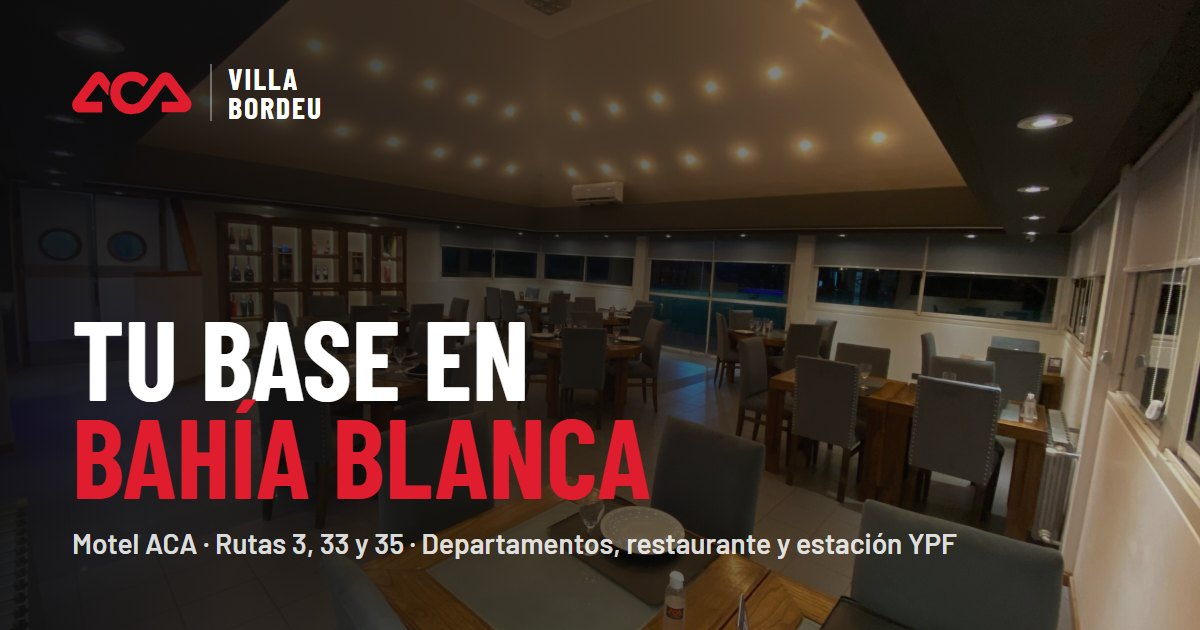
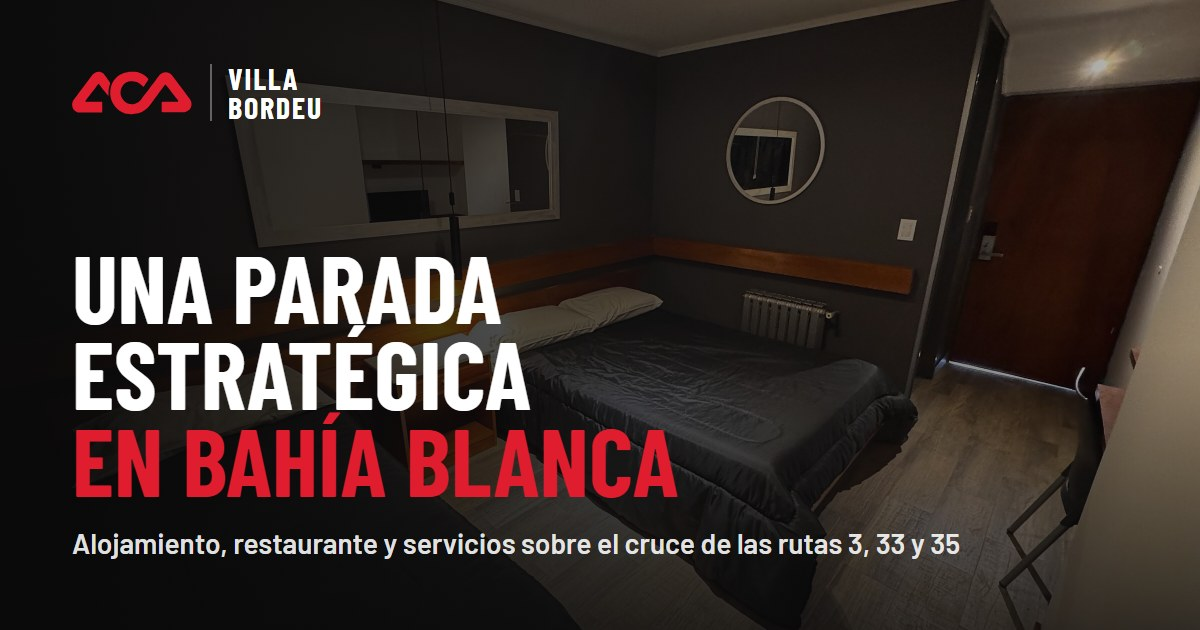
v2: predio como índice, cifra en número, velo en portadas internas, og:image propia

diff --git a/components/secciones/Predio.tsx b/components/secciones/Predio.tsx
@@ -1,116 +1,76 @@
-"use client";
-
-import { useState } from "react";
 import Image from "next/image";
 import Link from "next/link";
 import { PREDIO } from "@/lib/datos";
 import { foto } from "@/lib/fotos";
 import { Icono } from "@/components/marca/Icono";
 
-const AEREA = foto("predio", "aerea-dia.jpg", "Vista aérea del complejo ACA Villa Bordeu, con la torre, los techos rojos y el parque");
-
 /**
- * Plano del predio sobre la foto aérea. Los puntos se encienden uno por uno
- * (motor: data-pin-grupo); al tocar uno, la ficha cambia con su foto.
- * Sin JS: la foto con la lista debajo.
+ * Los lugares del complejo como un índice: número, nombre grande, una línea y
+ * la foto siempre a la vista. Nada que tocar para entenderlo.
  */
 export function Predio({ titulo = true }: { titulo?: boolean }) {
-  const [activo, setActivo] = useState(PREDIO[0].id);
-  const p = PREDIO.find((x) => x.id === activo) ?? PREDIO[0];
-  const fp = p.foto ? foto(p.foto[0], p.foto[1], p.titulo) : null;
-
   return (
     <div>
       {titulo && (
         <div className="mb-10 grid gap-6 md:mb-14 lg:grid-cols-[1fr_1fr] lg:items-end">
           <div>
             <p className="etiqueta" data-reveal>
-              El complejo
+              El predio
             </p>
             <h2 className="t-h2 mt-4" data-split>
-              Más que un lugar <span className="rojo-txt">para dormir</span>
+              Todo en un <span className="rojo-txt">mismo lugar</span>
             </h2>
           </div>
           <p className="lead text-asfalto lg:justify-self-end" data-reveal>
-            Tocá cada punto del plano.
+            Dormís, comés, entrenás, te reunís y cargás combustible sin salir del complejo.
           </p>
         </div>
       )}
 
-      <div className="grid gap-4 lg:grid-cols-[1.55fr_1fr]">
-        {/* Plano */}
-        <div className="tarjeta relative aspect-[9/5] bg-grafito md:aspect-[9/4.6]" data-pin-grupo>
-          <Image src={AEREA.src} alt={AEREA.alt} fill sizes="(min-width: 1024px) 60vw, 100vw" placeholder="blur" blurDataURL={AEREA.blurDataURL} className="object-cover" />
-          <div className="absolute inset-0 bg-gradient-to-t from-black/45 to-transparent" />
-          {PREDIO.map((pt, i) => (
-            <button
-              key={pt.id}
-              type="button"
-              data-pin-punto
-              aria-pressed={pt.id === activo}
-              aria-label={`${i + 1}. ${pt.titulo}`}
-              onClick={() => setActivo(pt.id)}
-              onMouseEnter={() => setActivo(pt.id)}
-              className="plano-punto group absolute -translate-x-1/2 -translate-y-1/2"
-              style={{ left: `${pt.x}%`, top: `${pt.y}%` }}
-            >
-              <span className="anillo absolute inset-0 rounded-full bg-rojo/60" aria-hidden="true" />
-              <span
-                className={[
-                  "relative grid size-8 place-items-center rounded-full font-display text-[15px] font-bold shadow-[0_6px_18px_-4px_rgb(0_0_0/0.6)] transition-all duration-300 md:size-10 md:text-[17px]",
-                  pt.id === activo ? "scale-110 bg-rojo text-white" : "bg-white text-tinta group-hover:bg-rojo group-hover:text-white",
-                ].join(" ")}
-              >
-                {i + 1}
+      <ol className="border-t border-[color:var(--linea)]">
+        {PREDIO.map((p, i) => {
+          const f = p.foto ? foto(p.foto[0], p.foto[1], p.titulo) : null;
+          const fila = (
+            <>
+              <span className="num font-display text-[15px] font-bold text-rojo md:text-[17px]">{String(i + 1).padStart(2, "0")}</span>
+              <span className="min-w-0">
+                <span className="block font-display text-[clamp(26px,3.2vw,52px)] leading-[0.95] font-bold uppercase transition-colors duration-500 group-hover:text-rojo">
+                  {p.titulo}
+                </span>
+                <span className="mt-2 block max-w-[46ch] text-[15px] text-asfalto md:text-base">{p.texto}</span>
               </span>
-            </button>
-          ))}
-          <p className="absolute bottom-3 left-4 text-[12px] font-semibold text-white/80 md:bottom-4 md:left-5">Vista aérea del complejo</p>
-        </div>
-
-        {/* Ficha del punto activo */}
-        <div className="tarjeta relative flex min-h-[300px] flex-col justify-end bg-grafito text-white">
-          {fp ? (
-            <Image key={fp.src} src={fp.src} alt={fp.alt} fill sizes="(min-width: 1024px) 38vw, 100vw" placeholder="blur" blurDataURL={fp.blurDataURL} className="visor-entra object-cover" />
-          ) : (
-            <div key={p.id} className="visor-entra grano absolute inset-0 grid place-items-center bg-[radial-gradient(circle_at_50%_35%,#3a1418,#141516_70%)]">
-              <Icono nombre={p.icono} className="size-28 text-white/15" grosor={0.8} />
-            </div>
-          )}
-          <div className="absolute inset-0 bg-gradient-to-t from-black/90 via-black/30 to-transparent" />
-          <div key={p.id} className="paso-entra relative p-5 md:p-7">
-            <span className="grid size-11 place-items-center rounded-full bg-rojo">
-              <Icono nombre={p.icono} className="size-5" grosor={1.8} />
-            </span>
-            <h3 className="mt-4 font-display text-[34px] leading-none font-bold uppercase">{p.titulo}</h3>
-            <p className="mt-2 max-w-[32ch] text-white/80">{p.texto}</p>
-            {p.href && (
-              <Link href={p.href} className="enlace mt-4 text-[15px]">
-                Ver más
-              </Link>
-            )}
-          </div>
-        </div>
-      </div>
-
-      {/* Lista: en celular es la forma principal de recorrer el plano */}
-      <ol className="sin-barra -mx-[var(--gutter)] mt-4 flex gap-2 overflow-x-auto px-[var(--gutter)] lg:mx-0 lg:grid lg:grid-cols-8 lg:px-0">
-        {PREDIO.map((pt, i) => (
-          <li key={pt.id} className="shrink-0">
-            <button
-              type="button"
-              onClick={() => setActivo(pt.id)}
-              aria-pressed={pt.id === activo}
-              className={[
-                "flex h-full w-full items-center gap-2 rounded-2xl px-3.5 py-3 text-left text-[14px] leading-tight font-semibold transition-colors",
-                pt.id === activo ? "bg-tinta text-white" : "bg-white shadow-[inset_0_0_0_1px_var(--linea)] hover:bg-hormigon",
-              ].join(" ")}
-            >
-              <span className={`num font-display text-[18px] ${pt.id === activo ? "text-rojo" : "text-asfalto"}`}>{i + 1}</span>
-              {pt.titulo}
-            </button>
-          </li>
-        ))}
+              <span className="relative aspect-[4/3] w-[96px] shrink-0 overflow-hidden rounded-2xl bg-grafito sm:w-[150px] lg:w-[220px]">
+                {f ? (
+                  <Image
+                    src={f.src}
+                    alt={f.alt}
+                    fill
+                    sizes="(min-width: 1024px) 220px, 150px"
+                    placeholder="blur"
+                    blurDataURL={f.blurDataURL}
+                    className="object-cover transition-transform duration-[1.2s] ease-[var(--ease-pt)] group-hover:scale-110"
+                  />
+                ) : (
+                  <span className="grid size-full place-items-center text-white/70">
+                    <Icono nombre={p.icono} className="size-9" grosor={1.3} />
+                  </span>
+                )}
+              </span>
+            </>
+          );
+          const clase = "group grid grid-cols-[auto_1fr_auto] items-center gap-4 border-b border-[color:var(--linea)] py-5 sm:gap-8 md:py-7";
+          return (
+            <li key={p.id} data-reveal data-delay={String(i * 0.05)}>
+              {p.href ? (
+                <Link href={p.href} className={clase}>
+                  {fila}
+                </Link>
+              ) : (
+                <div className={clase}>{fila}</div>
+              )}
+            </li>
+          );
+        })}
       </ol>
     </div>
   );

diff --git a/components/secciones/Comunes.tsx b/components/secciones/Comunes.tsx
@@ -39,7 +39,8 @@ export function PortadaPagina({
             <div className="absolute inset-x-0 -inset-y-[8%]" data-parallax="6">
               <Image src={f.src} alt={f.alt} fill priority sizes="100vw" quality={75} placeholder="blur" blurDataURL={f.blurDataURL} className="object-cover" />
             </div>
-            <div className="absolute inset-0 bg-[linear-gradient(180deg,rgb(10_10_11/0.6)_0%,rgb(10_10_11/0.2)_40%,rgb(10_10_11/0.88)_100%)]" />
+            <div className="absolute inset-0 bg-[linear-gradient(180deg,rgb(10_10_11/0.55)_0%,rgb(10_10_11/0.35)_40%,rgb(10_10_11/0.92)_100%)]" />
+            <div className="absolute inset-0 bg-[linear-gradient(90deg,rgb(10_10_11/0.7)_0%,rgb(10_10_11/0.35)_50%,transparent_85%)]" />
           </>
         ) : (
           <>
@@ -51,11 +52,11 @@ export function PortadaPagina({
       <div data-hero-contenido className="contenedor relative flex w-full flex-col justify-end pt-[calc(var(--header-h)+40px)] pb-10 md:pb-16">
         <Migas items={migas} />
         {/* `etiqueta` queda como dato (no se muestra): la portada va sin pre-título. */}
-        <h1 className="t-h1 hero-in mt-5 max-w-[18ch]" data-etiqueta={etiqueta} style={{ ["--i" as string]: 1 }}>
+        <h1 className="t-h1 hero-in mt-5 max-w-[18ch] [text-shadow:0_2px_24px_rgb(0_0_0/0.5)]" data-etiqueta={etiqueta} style={{ ["--i" as string]: 1 }}>
           {titulo}
         </h1>
         {bajada && (
-          <p className="lead hero-in mt-5 text-white/80" style={{ ["--i" as string]: 2 }}>
+          <p className="lead hero-in mt-5 text-white/90 [text-shadow:0_1px_14px_rgb(0_0_0/0.6)]" style={{ ["--i" as string]: 2 }}>
             {bajada}
           </p>
         )}

diff --git a/lib/datos.ts b/lib/datos.ts
@@ -73,6 +73,6 @@ export const PREDIO: PuntoPredio[] = [
   { id: "recepcion", titulo: "Recepción 24 h", texto: "Atención las 24 horas, para el que llega de noche por la ruta.", icono: "campana", x: 27, y: 40, foto: ["cafeteria", "01-recepcion-cafeteria.jpg"] },
   { id: "gym", titulo: "Gimnasio", texto: "Máquinas, bicis y pesas, con ventanales al parque.", icono: "pesa", x: 57, y: 56, foto: ["gimnasio", "01-gym-pared-verde.jpg"] },
   { id: "sala", titulo: "Sala de reuniones", texto: "Mesa para el equipo y pantalla para presentar.", icono: "reunion", x: 50, y: 46, foto: ["sala-reuniones", "01-mesa.jpg"], href: "/sala-de-reuniones" },
-  { id: "ypf", titulo: "Estación YPF", texto: "Combustible para seguir viaje o para la flota del equipo.", icono: "surtidor", x: 15, y: 41, foto: ["cafeteria", "02-cafeteria-mesas.jpg"], href: "/estacion-de-servicio" },
+  { id: "ypf", titulo: "Estación YPF", texto: "Combustible para seguir viaje o para la flota del equipo.", icono: "surtidor", x: 15, y: 41, foto: null, href: "/estacion-de-servicio" },
   { id: "lavanderia", titulo: "Lavandería", texto: "Para la ropa de todos los días y la de trabajo.", icono: "lavarropas", x: 68, y: 57, foto: null },
 ];

diff --git a/app/departamentos/page.tsx b/app/departamentos/page.tsx
@@ -25,7 +25,7 @@ export default function Departamentos() {
             Departamentos en Bahía Blanca, <span className="text-rojo">sobre la ruta</span>
           </>
         }
-        bajada="Veintiséis departamentos con baño privado y la cochera cubierta en la puerta. Para quedarse una noche o varias semanas."
+        bajada="26 departamentos con baño privado y la cochera cubierta en la puerta. Para quedarse una noche o varias semanas."
         migas={[{ nombre: "Departamentos", ruta: "/departamentos" }]}
       >
         <BotonConsultar modo="viaje" origen="deptos-portada">

diff --git a/app/historia/page.tsx b/app/historia/page.tsx
@@ -34,7 +34,7 @@ const HITOS = [
   {
     anio: "Hoy",
     titulo: "Todo en un mismo predio",
-    texto: "Veintiséis departamentos, gimnasio, sala de reuniones, tienda propia y la estación YPF. La base de los equipos que trabajan en la zona y de los viajeros que van al sur.",
+    texto: "26 departamentos, gimnasio, sala de reuniones, tienda propia y la estación YPF. La base de los equipos que trabajan en la zona y de los viajeros que van al sur.",
     foto: foto("habitaciones", "01-triple-dos-camas.jpg", "Departamento con paredes grafito y cabecera de madera"),
   },
 ];

diff --git a/components/secciones/ParaEmpresas.tsx b/components/secciones/ParaEmpresas.tsx
@@ -10,7 +10,7 @@ import { BotonConsultar } from "@/components/consulta/ConsultaContext";
 const RAZONES = [
   {
     titulo: "Todo el equipo en un mismo predio",
-    texto: "Veintiséis departamentos single, doble y triple, uno al lado del otro. Nadie queda repartido por la ciudad.",
+    texto: "26 departamentos single, doble y triple, uno al lado del otro. Nadie queda repartido por la ciudad.",
     f: foto("habitaciones", "02-doble-escritorio.jpg", "Departamento con escritorio, TV y dos camas"),
   },
   {
